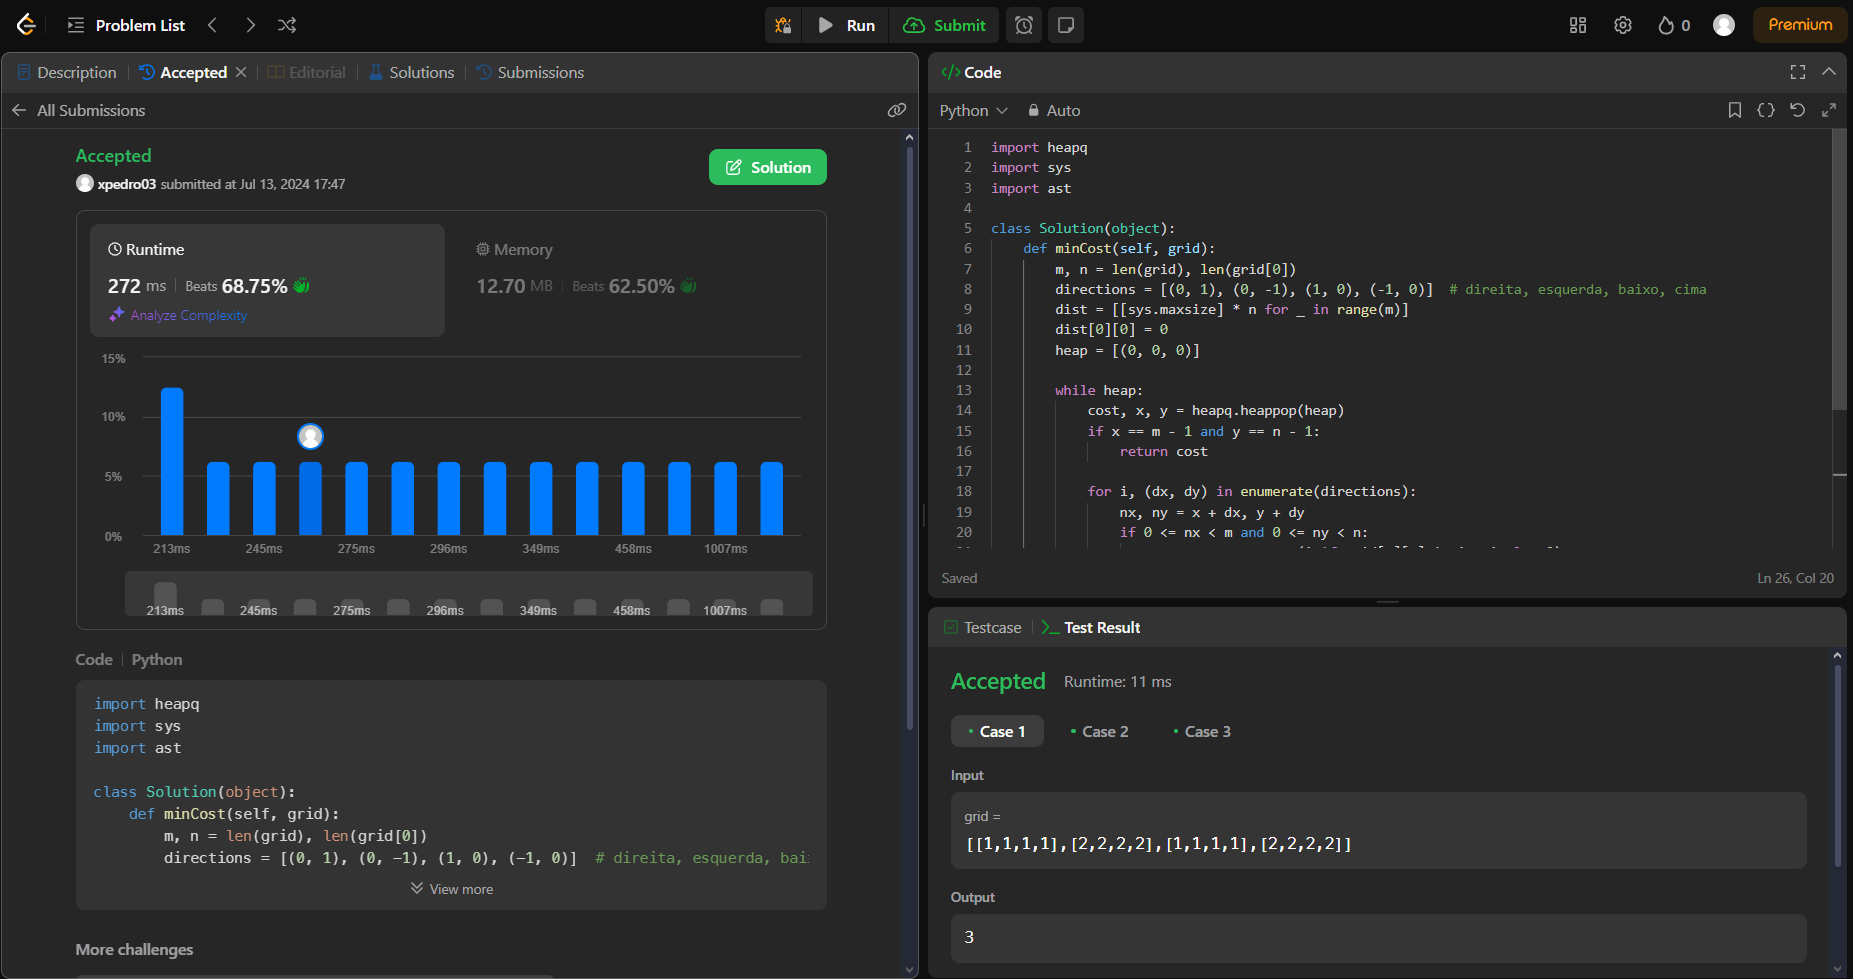
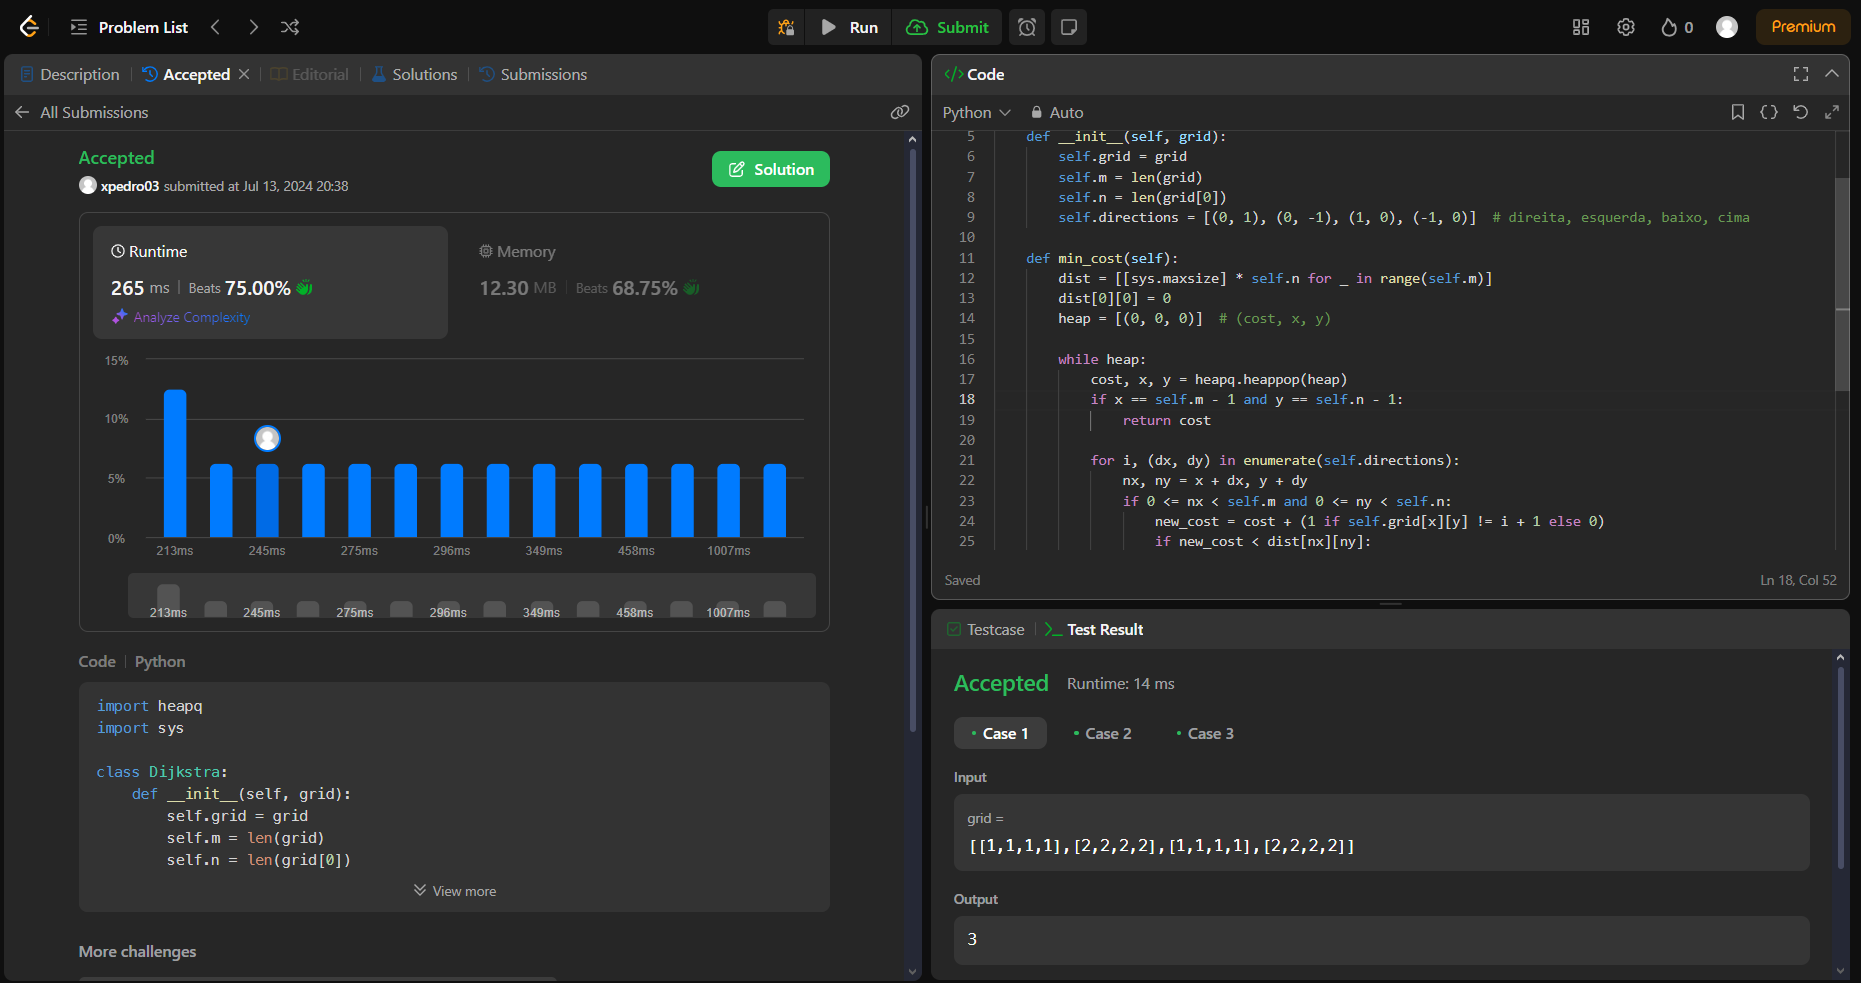
correcao dos algoritmos

diff --git a/questao787.py b/questao787.py
@@ -1,0 +1,43 @@
+import heapq
+from collections import defaultdict
+
+class Dijkstra:
+    def __init__(self, graph, n):
+        self.graph = graph
+        self.n = n
+    
+    def caminhoMaisBarato(self, k):
+        distances = {node: float('inf') for node in range(1, self.n + 1)}
+        distances[k] = 0
+        min_heap = [(0, k)]  # (distância até o nó, nó)
+        
+        while min_heap:
+            dist_atual, no_atual = heapq.heappop(min_heap)
+            
+            if dist_atual > distances[no_atual]:
+                continue
+            
+            for vizinho , weight in self.graph[no_atual]:
+                distance = dist_atual + weight
+                if distance < distances[vizinho]:
+                    distances[vizinho] = distance
+                    heapq.heappush(min_heap, (distance, vizinho))
+        
+        max_distance = max(distances.values())
+        if max_distance == float('inf'):
+            return -1
+        else:
+            return max_distance
+
+class Solution(object):
+    def networkDelayTime(self, times, n, k):
+
+        # Passo 1: Construir o grafo usando um defaultdict de listas
+        graph = defaultdict(list)
+        for u, v, w in times:
+            graph[u].append((v, w))
+        
+        # Passo 2: Usar a classe Dijkstra para calcular o tempo mínimo de propagação do sinal
+        dijkstra = Dijkstra(graph, n)
+        return dijkstra.caminhoMaisBarato(k)
+

diff --git a/questao1368.py b/questao1368.py
@@ -1,0 +1,35 @@
+import heapq
+import sys
+
+class Dijkstra:
+    def __init__(self, grid):
+        self.grid = grid
+        self.m = len(grid)
+        self.n = len(grid[0])
+        self.directions = [(0, 1), (0, -1), (1, 0), (-1, 0)]  # direita, esquerda, baixo, cima
+    
+    def minDist(self):
+        dist = [[sys.maxsize] * self.n for _ in range(self.m)]
+        dist[0][0] = 0
+        heap = [(0, 0, 0)]  # (cost, x, y)
+        
+        while heap:
+            cost, x, y = heapq.heappop(heap)
+            if x == self.m - 1 and y == self.n - 1:
+                return cost
+            
+            for i, (dx, dy) in enumerate(self.directions):
+                nx, ny = x + dx, y + dy
+                if 0 <= nx < self.m and 0 <= ny < self.n:
+                    new_cost = cost + (1 if self.grid[x][y] != i + 1 else 0)
+                    if new_cost < dist[nx][ny]:
+                        dist[nx][ny] = new_cost
+                        heapq.heappush(heap, (new_cost, nx, ny))
+        
+        return -1
+
+class Solution(object):
+    def minCost(self, grid):
+        dijkstra = Dijkstra(grid)
+        return dijkstra.minDist()
+

diff --git a/teste787.py b/teste787.py
@@ -1,5 +1,5 @@
 import unittest
-from Q787 import Solution 
+from questao787 import Solution 
 
 class TestSolution(unittest.TestCase):
     def setUp(self):

diff --git a/teste1368.py b/teste1368.py
@@ -1,5 +1,5 @@
 import unittest
-from Q1368 import Solution 
+from questao1368 import Solution 
 
 class TestSolution(unittest.TestCase):
     
